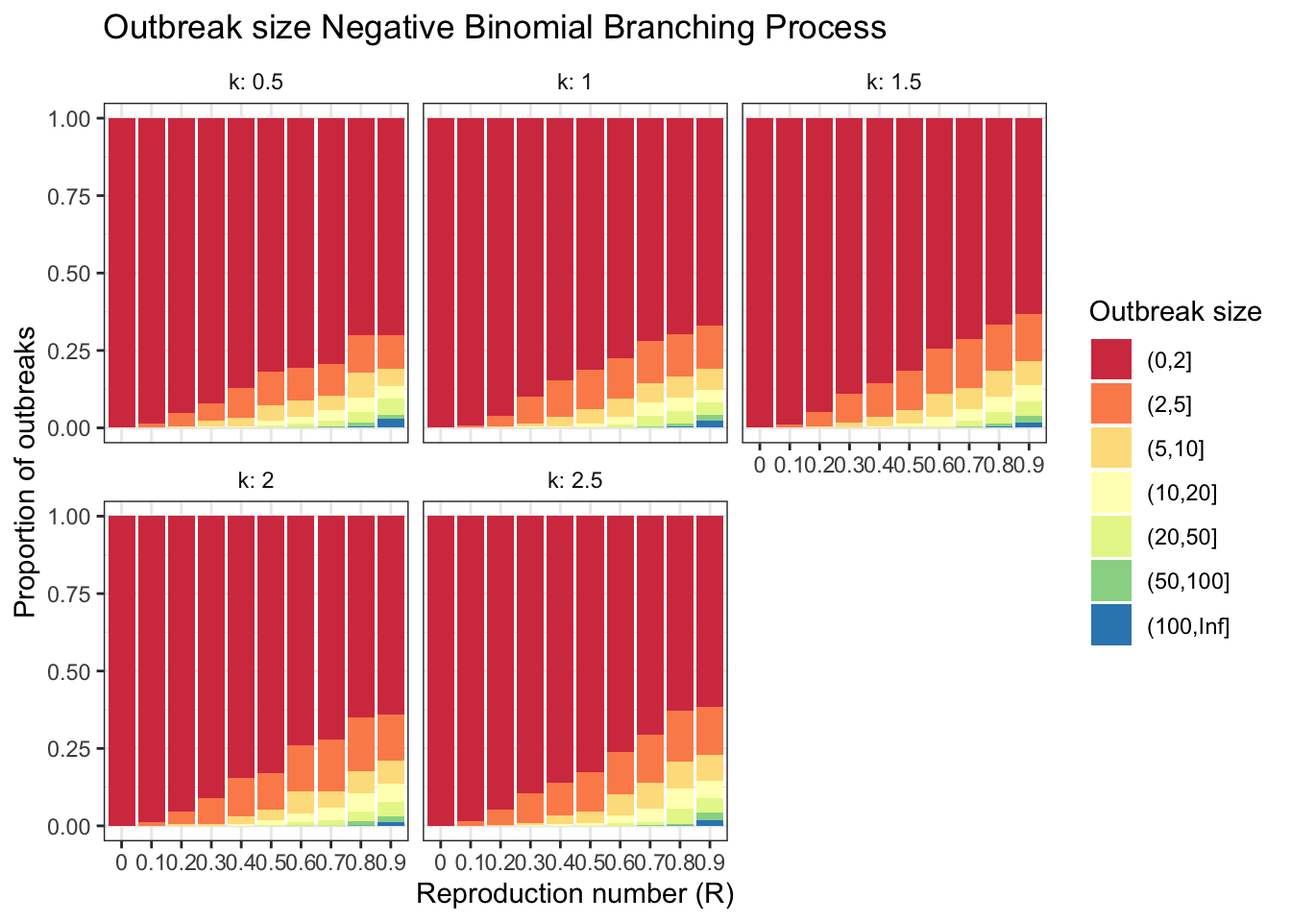
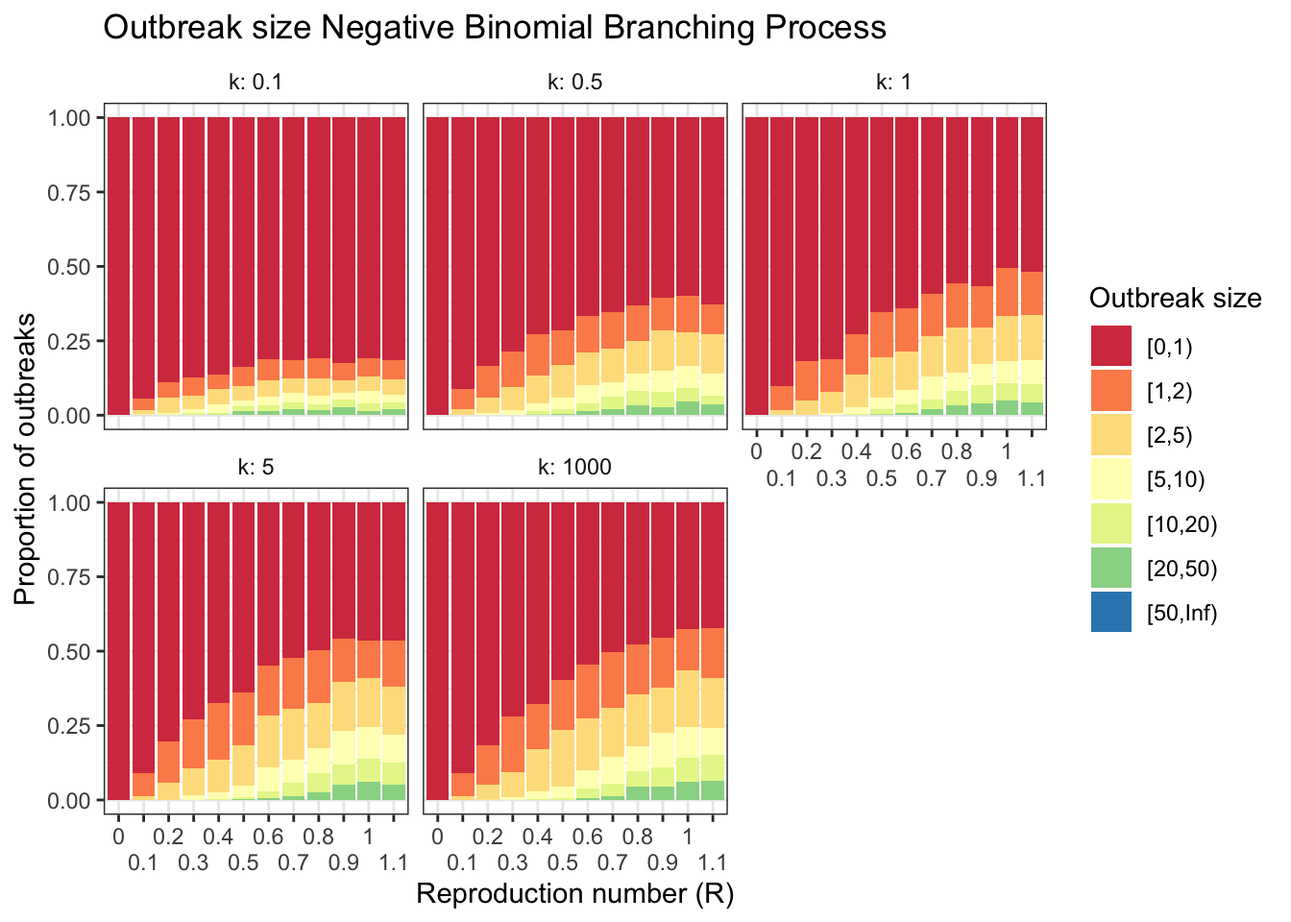
update report html and figures

diff --git a/report/outbreak_no_intervention.html b/report/outbreak_no_intervention.html
@@ -126,60 +126,50 @@ window.Quarto = {
 
 
 <p>This report requires two R packages: {epichains} and {ggplot2}, the former to simulate the branching process model and the latter to visualise the results.</p>
-<div class="cell">
-<div class="sourceCode cell-code" id="cb1"><pre class="sourceCode r code-with-copy"><code class="sourceCode r"><span id="cb1-1"><a href="#cb1-1" aria-hidden="true" tabindex="-1"></a><span class="co"># install from outbreak_dist branch of {epichains}</span></span>
-<span id="cb1-2"><a href="#cb1-2" aria-hidden="true" tabindex="-1"></a><span class="co"># remotes::install_github("epiverse-trace/epichains@outbreak_dist")</span></span>
-<span id="cb1-3"><a href="#cb1-3" aria-hidden="true" tabindex="-1"></a><span class="fu">library</span>(epichains)</span>
-<span id="cb1-4"><a href="#cb1-4" aria-hidden="true" tabindex="-1"></a><span class="fu">library</span>(ggplot2)</span></code><button title="Copy to Clipboard" class="code-copy-button"><i class="bi"></i></button></pre></div>
-</div>
-<p>The <code>simulate_scenarios()</code> function from {epichains} calculates the proportion of outbreak statistic across values of the reproduction number (<span class="math inline">\(R\)</span>).</p>
-<p>Here we run the function for both Poisson (<code>"rpois"</code>) and Negative Binomial (<code>"rnbinom"</code>) distributions, calculating both the size and length of the outbreak. Size is the total number of cases produced by a chain before it goes extinct. Length is the total number of generations reached by a chain before it goes extinct. See <code>?epichains::simulate_chain_stats</code> for more information on the branching process simulation.</p>
-<p>We simulate using a reproduction number (<span class="math inline">\(R\)</span>) between 0.1 and 0.9 at 0.1 intervals, and for the Negative Binomial offspring distribution we vary the dispersion parameter (<span class="math inline">\(k\)</span>) between 0.5 and 2.5 at 0.5 intervals. Smaller values of <span class="math inline">\(k\)</span> signify more overdispersion in the transmission spreading, in other words transmission is more heterogeneous and superspreding events are more likely. As <span class="math inline">\(k\)</span> increases individual-level transmission is more homogeneous and when <span class="math inline">\(k \rightarrow \infty\)</span> the Negative Binomial equals the Poisson offspring distribution.</p>
-<div class="cell">
-<div class="sourceCode cell-code" id="cb2"><pre class="sourceCode r code-with-copy"><code class="sourceCode r"><span id="cb2-1"><a href="#cb2-1" aria-hidden="true" tabindex="-1"></a>df <span class="ot">&lt;-</span> <span class="fu">simulate_scenarios</span>(</span>
-<span id="cb2-2"><a href="#cb2-2" aria-hidden="true" tabindex="-1"></a>  <span class="at">offspring_dist =</span> <span class="fu">c</span>(<span class="st">"rpois"</span>, <span class="st">"rnbinom"</span>), </span>
-<span id="cb2-3"><a href="#cb2-3" aria-hidden="true" tabindex="-1"></a>  <span class="at">statistic =</span> <span class="fu">c</span>(<span class="st">"size"</span>, <span class="st">"length"</span>), </span>
-<span id="cb2-4"><a href="#cb2-4" aria-hidden="true" tabindex="-1"></a>  <span class="at">R_seq =</span> <span class="fu">seq</span>(<span class="dv">0</span>, <span class="fl">0.9</span>, <span class="fl">0.1</span>), </span>
-<span id="cb2-5"><a href="#cb2-5" aria-hidden="true" tabindex="-1"></a>  <span class="at">k_seq =</span> <span class="fu">seq</span>(<span class="fl">0.5</span>, <span class="fl">2.5</span>, <span class="fl">0.5</span>), </span>
-<span id="cb2-6"><a href="#cb2-6" aria-hidden="true" tabindex="-1"></a>  <span class="at">breaks =</span> <span class="fu">c</span>(<span class="dv">0</span>, <span class="dv">2</span>, <span class="dv">5</span>, <span class="dv">10</span>, <span class="dv">20</span>, <span class="dv">50</span>, <span class="dv">100</span>, <span class="cn">Inf</span>)</span>
-<span id="cb2-7"><a href="#cb2-7" aria-hidden="true" tabindex="-1"></a>)</span></code><button title="Copy to Clipboard" class="code-copy-button"><i class="bi"></i></button></pre></div>
-</div>
+<p>The <code>simulate_scenarios()</code> function from {epichains} calculates the proportion of outbreak statistic (size and/or length) across scenarios of reproduction number (<span class="math inline">\(R0\)</span>) values, overdispersion, <span class="math inline">\(k\)</span>, and offspring distributions.</p>
+<p>Here, we use a simple branching process to explore scenarios of reproduction number (<span class="math inline">\(R0\)</span>) values, overdispersion, <span class="math inline">\(k\)</span>, and offspring distributions and their associated chain size and length. The branching process is seeded with an initial number of cases and an offspring distribution, and optionally, a generation time distribution.</p>
+<p>We define the chain size as the total number of cases produced by a chain before it goes extinct. The chain length, on the other hand, is the total number of generations reached by a chain before it goes extinct.</p>
+<p>We use a reproduction number (<span class="math inline">\(R\)</span>) between 0 and 1.1 at 0.1 intervals, and for the Negative Binomial offspring distribution, we vary the dispersion parameter (<span class="math inline">\(k\)</span>) at 0.1, 0.5, 1, 5, 1000. Smaller values of <span class="math inline">\(k\)</span> signify more overdispersion in the individual-level transmissibility, in other words transmission is more heterogeneous and superspreading events are more likely. As <span class="math inline">\(k\)</span> increases individual-level transmission is more homogeneous and when <span class="math inline">\(k \rightarrow \infty\)</span> the Negative Binomial equals the Poisson offspring distribution.</p>
+<p>We are interested in the number of secondary cases produced in the outbreak. This is the cases that are caused by human-to-human transmission, and not the primary/index case which can be a zoonotic transmission event. All transmission chain sizes and lengths presented below do not include the primary/index case. Thus, outbreaks can be of size and length 0 (red bar) when the primary cases does not infect anyone.</p>
 <p>The function produces a <code>data.frame</code> that contains the outbreak size or length in intervals (<code>$interval</code>), the proportion of outbreaks that fall into that interval (<code>$Freq</code>), the reproduction number (<code>$R</code>), the dispersion parameter (<code>$k</code>, for Poisson distributions <span class="math inline">\(k\)</span> is set to <code>NA</code>), the offspring distribution (<code>$offspring_dist</code>), and the outbreak statistic (<code>$statistic</code>, either size or length).</p>
 <p>Here are the first 6 rows.</p>
 <div class="cell">
-<div class="sourceCode cell-code" id="cb3"><pre class="sourceCode r code-with-copy"><code class="sourceCode r"><span id="cb3-1"><a href="#cb3-1" aria-hidden="true" tabindex="-1"></a><span class="fu">head</span>(df)</span></code><button title="Copy to Clipboard" class="code-copy-button"><i class="bi"></i></button></pre></div>
+<div class="sourceCode cell-code" id="cb1"><pre class="sourceCode r code-with-copy"><code class="sourceCode r"><span id="cb1-1"><a href="#cb1-1" aria-hidden="true" tabindex="-1"></a><span class="fu">head</span>(df)</span></code><button title="Copy to Clipboard" class="code-copy-button"><i class="bi"></i></button></pre></div>
 <div class="cell-output cell-output-stdout">
 <pre><code>  interval Freq R  k offspring_dist statistic
-1    (0,2]    1 0 NA          rpois      size
-2    (2,5]    0 0 NA          rpois      size
-3   (5,10]    0 0 NA          rpois      size
-4  (10,20]    0 0 NA          rpois      size
-5  (20,50]    0 0 NA          rpois      size
-6 (50,100]    0 0 NA          rpois      size</code></pre>
+1    [0,1)    1 0 NA          rpois      size
+2    [1,2)    0 0 NA          rpois      size
+3    [2,5)    0 0 NA          rpois      size
+4   [5,10)    0 0 NA          rpois      size
+5  [10,20)    0 0 NA          rpois      size
+6  [20,50)    0 0 NA          rpois      size</code></pre>
 </div>
 </div>
-<p>Plotting the Poisson results.</p>
+<p>Below, we show the results for the Poisson distribution for varying plausible <span class="math inline">\(R0\)</span> values. The figure shows the proportion of outbreaks that achieved different outbreak size ranges.</p>
 <div class="cell">
 <details class="code-fold">
 <summary>Show the code</summary>
-<div class="sourceCode cell-code" id="cb5"><pre class="sourceCode r code-with-copy"><code class="sourceCode r"><span id="cb5-1"><a href="#cb5-1" aria-hidden="true" tabindex="-1"></a>df <span class="sc">|&gt;</span> </span>
-<span id="cb5-2"><a href="#cb5-2" aria-hidden="true" tabindex="-1"></a>  <span class="fu">subset</span>(offspring_dist <span class="sc">==</span> <span class="st">"rpois"</span>) <span class="sc">|&gt;</span></span>
-<span id="cb5-3"><a href="#cb5-3" aria-hidden="true" tabindex="-1"></a>  ggplot2<span class="sc">::</span><span class="fu">ggplot</span>() <span class="sc">+</span></span>
-<span id="cb5-4"><a href="#cb5-4" aria-hidden="true" tabindex="-1"></a>  ggplot2<span class="sc">::</span><span class="fu">geom_col</span>(</span>
-<span id="cb5-5"><a href="#cb5-5" aria-hidden="true" tabindex="-1"></a>    <span class="at">mapping =</span> ggplot2<span class="sc">::</span><span class="fu">aes</span>(<span class="at">x =</span> <span class="fu">as.factor</span>(R), <span class="at">y =</span> Freq, <span class="at">fill =</span> interval)</span>
-<span id="cb5-6"><a href="#cb5-6" aria-hidden="true" tabindex="-1"></a>  ) <span class="sc">+</span></span>
-<span id="cb5-7"><a href="#cb5-7" aria-hidden="true" tabindex="-1"></a>  ggplot2<span class="sc">::</span><span class="fu">scale_x_discrete</span>(<span class="at">name =</span> <span class="st">"Reproduction number (R)"</span>) <span class="sc">+</span></span>
-<span id="cb5-8"><a href="#cb5-8" aria-hidden="true" tabindex="-1"></a>  ggplot2<span class="sc">::</span><span class="fu">scale_y_continuous</span>(<span class="at">name =</span> <span class="st">"Proportion of outbreaks"</span>) <span class="sc">+</span></span>
-<span id="cb5-9"><a href="#cb5-9" aria-hidden="true" tabindex="-1"></a>  ggplot2<span class="sc">::</span><span class="fu">scale_fill_brewer</span>(<span class="at">name =</span> <span class="st">"Outbreak size"</span>, <span class="at">palette =</span> <span class="st">"Spectral"</span>) <span class="sc">+</span></span>
-<span id="cb5-10"><a href="#cb5-10" aria-hidden="true" tabindex="-1"></a>  ggplot2<span class="sc">::</span><span class="fu">facet_wrap</span>(</span>
-<span id="cb5-11"><a href="#cb5-11" aria-hidden="true" tabindex="-1"></a>    <span class="at">facets =</span> <span class="fu">c</span>(<span class="st">"offspring_dist"</span>, <span class="st">"statistic"</span>), </span>
-<span id="cb5-12"><a href="#cb5-12" aria-hidden="true" tabindex="-1"></a>    <span class="at">labeller =</span> ggplot2<span class="sc">::</span>label_both</span>
-<span id="cb5-13"><a href="#cb5-13" aria-hidden="true" tabindex="-1"></a>  ) <span class="sc">+</span></span>
-<span id="cb5-14"><a href="#cb5-14" aria-hidden="true" tabindex="-1"></a>  ggplot2<span class="sc">::</span><span class="fu">labs</span>(</span>
-<span id="cb5-15"><a href="#cb5-15" aria-hidden="true" tabindex="-1"></a>    <span class="at">title =</span> <span class="st">"Outbreak size and length for Poisson Branching Process"</span></span>
-<span id="cb5-16"><a href="#cb5-16" aria-hidden="true" tabindex="-1"></a>  ) <span class="sc">+</span></span>
-<span id="cb5-17"><a href="#cb5-17" aria-hidden="true" tabindex="-1"></a>  ggplot2<span class="sc">::</span><span class="fu">theme_bw</span>() <span class="sc">+</span> </span>
-<span id="cb5-18"><a href="#cb5-18" aria-hidden="true" tabindex="-1"></a>  ggplot2<span class="sc">::</span><span class="fu">theme</span>(<span class="at">strip.background =</span> ggplot2<span class="sc">::</span><span class="fu">element_blank</span>())</span></code><button title="Copy to Clipboard" class="code-copy-button"><i class="bi"></i></button></pre></div>
+<div class="sourceCode cell-code" id="cb3"><pre class="sourceCode r code-with-copy"><code class="sourceCode r"><span id="cb3-1"><a href="#cb3-1" aria-hidden="true" tabindex="-1"></a>df <span class="sc">|&gt;</span> </span>
+<span id="cb3-2"><a href="#cb3-2" aria-hidden="true" tabindex="-1"></a>  <span class="fu">subset</span>(offspring_dist <span class="sc">==</span> <span class="st">"rpois"</span>) <span class="sc">|&gt;</span></span>
+<span id="cb3-3"><a href="#cb3-3" aria-hidden="true" tabindex="-1"></a>  ggplot2<span class="sc">::</span><span class="fu">ggplot</span>() <span class="sc">+</span></span>
+<span id="cb3-4"><a href="#cb3-4" aria-hidden="true" tabindex="-1"></a>  ggplot2<span class="sc">::</span><span class="fu">geom_col</span>(</span>
+<span id="cb3-5"><a href="#cb3-5" aria-hidden="true" tabindex="-1"></a>    <span class="at">mapping =</span> ggplot2<span class="sc">::</span><span class="fu">aes</span>(<span class="at">x =</span> <span class="fu">as.factor</span>(R), <span class="at">y =</span> Freq, <span class="at">fill =</span> interval)</span>
+<span id="cb3-6"><a href="#cb3-6" aria-hidden="true" tabindex="-1"></a>  ) <span class="sc">+</span></span>
+<span id="cb3-7"><a href="#cb3-7" aria-hidden="true" tabindex="-1"></a>  ggplot2<span class="sc">::</span><span class="fu">scale_x_discrete</span>(</span>
+<span id="cb3-8"><a href="#cb3-8" aria-hidden="true" tabindex="-1"></a>    <span class="at">name =</span> <span class="st">"Reproduction number (R)"</span>, </span>
+<span id="cb3-9"><a href="#cb3-9" aria-hidden="true" tabindex="-1"></a>    <span class="at">guide =</span> ggplot2<span class="sc">::</span><span class="fu">guide_axis</span>(<span class="at">n.dodge=</span><span class="dv">2</span>)</span>
+<span id="cb3-10"><a href="#cb3-10" aria-hidden="true" tabindex="-1"></a>  ) <span class="sc">+</span></span>
+<span id="cb3-11"><a href="#cb3-11" aria-hidden="true" tabindex="-1"></a>  ggplot2<span class="sc">::</span><span class="fu">scale_y_continuous</span>(<span class="at">name =</span> <span class="st">"Proportion of outbreaks"</span>) <span class="sc">+</span></span>
+<span id="cb3-12"><a href="#cb3-12" aria-hidden="true" tabindex="-1"></a>  ggplot2<span class="sc">::</span><span class="fu">scale_fill_brewer</span>(<span class="at">name =</span> <span class="st">"Outbreak size"</span>, <span class="at">palette =</span> <span class="st">"Spectral"</span>) <span class="sc">+</span></span>
+<span id="cb3-13"><a href="#cb3-13" aria-hidden="true" tabindex="-1"></a>  ggplot2<span class="sc">::</span><span class="fu">facet_wrap</span>(</span>
+<span id="cb3-14"><a href="#cb3-14" aria-hidden="true" tabindex="-1"></a>    <span class="at">facets =</span> <span class="fu">c</span>(<span class="st">"offspring_dist"</span>, <span class="st">"statistic"</span>), </span>
+<span id="cb3-15"><a href="#cb3-15" aria-hidden="true" tabindex="-1"></a>    <span class="at">labeller =</span> ggplot2<span class="sc">::</span>label_both</span>
+<span id="cb3-16"><a href="#cb3-16" aria-hidden="true" tabindex="-1"></a>  ) <span class="sc">+</span></span>
+<span id="cb3-17"><a href="#cb3-17" aria-hidden="true" tabindex="-1"></a>  ggplot2<span class="sc">::</span><span class="fu">labs</span>(</span>
+<span id="cb3-18"><a href="#cb3-18" aria-hidden="true" tabindex="-1"></a>    <span class="at">title =</span> <span class="st">"Outbreak size and length for Poisson Branching Process"</span></span>
+<span id="cb3-19"><a href="#cb3-19" aria-hidden="true" tabindex="-1"></a>  ) <span class="sc">+</span></span>
+<span id="cb3-20"><a href="#cb3-20" aria-hidden="true" tabindex="-1"></a>  ggplot2<span class="sc">::</span><span class="fu">theme_bw</span>() <span class="sc">+</span> </span>
+<span id="cb3-21"><a href="#cb3-21" aria-hidden="true" tabindex="-1"></a>  ggplot2<span class="sc">::</span><span class="fu">theme</span>(<span class="at">strip.background =</span> ggplot2<span class="sc">::</span><span class="fu">element_blank</span>())</span></code><button title="Copy to Clipboard" class="code-copy-button"><i class="bi"></i></button></pre></div>
 </details>
 <div class="cell-output-display">
 <div>
@@ -189,28 +179,31 @@ window.Quarto = {
 </div>
 </div>
 </div>
-<p>Plotting the Negative Binomial results for <span class="math inline">\(k = 0.5\)</span>.</p>
+<p>Next are the results of the negative distribution offspring for varying plausible <span class="math inline">\(R0\)</span> values but a fixed <span class="math inline">\(k\)</span> of <span class="math inline">\(0.5\)</span>. The figure shows the proportion of outbreaks that achieved different outbreak size ranges.</p>
 <div class="cell">
 <details class="code-fold">
 <summary>Show the code</summary>
-<div class="sourceCode cell-code" id="cb6"><pre class="sourceCode r code-with-copy"><code class="sourceCode r"><span id="cb6-1"><a href="#cb6-1" aria-hidden="true" tabindex="-1"></a>df <span class="sc">|&gt;</span> </span>
-<span id="cb6-2"><a href="#cb6-2" aria-hidden="true" tabindex="-1"></a>  <span class="fu">subset</span>(offspring_dist <span class="sc">==</span> <span class="st">"rnbinom"</span> <span class="sc">&amp;</span> k <span class="sc">==</span> <span class="fl">0.5</span>) <span class="sc">|&gt;</span></span>
-<span id="cb6-3"><a href="#cb6-3" aria-hidden="true" tabindex="-1"></a>  ggplot2<span class="sc">::</span><span class="fu">ggplot</span>() <span class="sc">+</span></span>
-<span id="cb6-4"><a href="#cb6-4" aria-hidden="true" tabindex="-1"></a>  ggplot2<span class="sc">::</span><span class="fu">geom_col</span>(</span>
-<span id="cb6-5"><a href="#cb6-5" aria-hidden="true" tabindex="-1"></a>    <span class="at">mapping =</span> ggplot2<span class="sc">::</span><span class="fu">aes</span>(<span class="at">x =</span> <span class="fu">as.factor</span>(R), <span class="at">y =</span> Freq, <span class="at">fill =</span> interval)</span>
-<span id="cb6-6"><a href="#cb6-6" aria-hidden="true" tabindex="-1"></a>  ) <span class="sc">+</span></span>
-<span id="cb6-7"><a href="#cb6-7" aria-hidden="true" tabindex="-1"></a>  ggplot2<span class="sc">::</span><span class="fu">scale_x_discrete</span>(<span class="at">name =</span> <span class="st">"Reproduction number (R)"</span>) <span class="sc">+</span></span>
-<span id="cb6-8"><a href="#cb6-8" aria-hidden="true" tabindex="-1"></a>  ggplot2<span class="sc">::</span><span class="fu">scale_y_continuous</span>(<span class="at">name =</span> <span class="st">"Proportion of outbreaks"</span>) <span class="sc">+</span></span>
-<span id="cb6-9"><a href="#cb6-9" aria-hidden="true" tabindex="-1"></a>  ggplot2<span class="sc">::</span><span class="fu">scale_fill_brewer</span>(<span class="at">name =</span> <span class="st">"Outbreak size"</span>, <span class="at">palette =</span> <span class="st">"Spectral"</span>) <span class="sc">+</span></span>
-<span id="cb6-10"><a href="#cb6-10" aria-hidden="true" tabindex="-1"></a>  ggplot2<span class="sc">::</span><span class="fu">facet_wrap</span>(</span>
-<span id="cb6-11"><a href="#cb6-11" aria-hidden="true" tabindex="-1"></a>    <span class="at">facets =</span> <span class="fu">c</span>(<span class="st">"offspring_dist"</span>, <span class="st">"statistic"</span>), </span>
-<span id="cb6-12"><a href="#cb6-12" aria-hidden="true" tabindex="-1"></a>    <span class="at">labeller =</span> ggplot2<span class="sc">::</span>label_both</span>
-<span id="cb6-13"><a href="#cb6-13" aria-hidden="true" tabindex="-1"></a>  ) <span class="sc">+</span></span>
-<span id="cb6-14"><a href="#cb6-14" aria-hidden="true" tabindex="-1"></a>  ggplot2<span class="sc">::</span><span class="fu">labs</span>(</span>
-<span id="cb6-15"><a href="#cb6-15" aria-hidden="true" tabindex="-1"></a>    <span class="at">title =</span> <span class="st">"Outbreak size and length for Negative Binomial Branching Process"</span></span>
-<span id="cb6-16"><a href="#cb6-16" aria-hidden="true" tabindex="-1"></a>  ) <span class="sc">+</span></span>
-<span id="cb6-17"><a href="#cb6-17" aria-hidden="true" tabindex="-1"></a>  ggplot2<span class="sc">::</span><span class="fu">theme_bw</span>() <span class="sc">+</span> </span>
-<span id="cb6-18"><a href="#cb6-18" aria-hidden="true" tabindex="-1"></a>  ggplot2<span class="sc">::</span><span class="fu">theme</span>(<span class="at">strip.background =</span> ggplot2<span class="sc">::</span><span class="fu">element_blank</span>())</span></code><button title="Copy to Clipboard" class="code-copy-button"><i class="bi"></i></button></pre></div>
+<div class="sourceCode cell-code" id="cb4"><pre class="sourceCode r code-with-copy"><code class="sourceCode r"><span id="cb4-1"><a href="#cb4-1" aria-hidden="true" tabindex="-1"></a>df <span class="sc">|&gt;</span> </span>
+<span id="cb4-2"><a href="#cb4-2" aria-hidden="true" tabindex="-1"></a>  <span class="fu">subset</span>(offspring_dist <span class="sc">==</span> <span class="st">"rnbinom"</span> <span class="sc">&amp;</span> k <span class="sc">==</span> <span class="fl">0.5</span>) <span class="sc">|&gt;</span></span>
+<span id="cb4-3"><a href="#cb4-3" aria-hidden="true" tabindex="-1"></a>  ggplot2<span class="sc">::</span><span class="fu">ggplot</span>() <span class="sc">+</span></span>
+<span id="cb4-4"><a href="#cb4-4" aria-hidden="true" tabindex="-1"></a>  ggplot2<span class="sc">::</span><span class="fu">geom_col</span>(</span>
+<span id="cb4-5"><a href="#cb4-5" aria-hidden="true" tabindex="-1"></a>    <span class="at">mapping =</span> ggplot2<span class="sc">::</span><span class="fu">aes</span>(<span class="at">x =</span> <span class="fu">as.factor</span>(R), <span class="at">y =</span> Freq, <span class="at">fill =</span> interval)</span>
+<span id="cb4-6"><a href="#cb4-6" aria-hidden="true" tabindex="-1"></a>  ) <span class="sc">+</span></span>
+<span id="cb4-7"><a href="#cb4-7" aria-hidden="true" tabindex="-1"></a>  ggplot2<span class="sc">::</span><span class="fu">scale_x_discrete</span>(</span>
+<span id="cb4-8"><a href="#cb4-8" aria-hidden="true" tabindex="-1"></a>    <span class="at">name =</span> <span class="st">"Reproduction number (R)"</span>,</span>
+<span id="cb4-9"><a href="#cb4-9" aria-hidden="true" tabindex="-1"></a>    <span class="at">guide =</span> ggplot2<span class="sc">::</span><span class="fu">guide_axis</span>(<span class="at">n.dodge=</span><span class="dv">2</span>)</span>
+<span id="cb4-10"><a href="#cb4-10" aria-hidden="true" tabindex="-1"></a>  ) <span class="sc">+</span></span>
+<span id="cb4-11"><a href="#cb4-11" aria-hidden="true" tabindex="-1"></a>  ggplot2<span class="sc">::</span><span class="fu">scale_y_continuous</span>(<span class="at">name =</span> <span class="st">"Proportion of outbreaks"</span>) <span class="sc">+</span></span>
+<span id="cb4-12"><a href="#cb4-12" aria-hidden="true" tabindex="-1"></a>  ggplot2<span class="sc">::</span><span class="fu">scale_fill_brewer</span>(<span class="at">name =</span> <span class="st">"Outbreak size"</span>, <span class="at">palette =</span> <span class="st">"Spectral"</span>) <span class="sc">+</span></span>
+<span id="cb4-13"><a href="#cb4-13" aria-hidden="true" tabindex="-1"></a>  ggplot2<span class="sc">::</span><span class="fu">facet_wrap</span>(</span>
+<span id="cb4-14"><a href="#cb4-14" aria-hidden="true" tabindex="-1"></a>    <span class="at">facets =</span> <span class="fu">c</span>(<span class="st">"offspring_dist"</span>, <span class="st">"statistic"</span>), </span>
+<span id="cb4-15"><a href="#cb4-15" aria-hidden="true" tabindex="-1"></a>    <span class="at">labeller =</span> ggplot2<span class="sc">::</span>label_both</span>
+<span id="cb4-16"><a href="#cb4-16" aria-hidden="true" tabindex="-1"></a>  ) <span class="sc">+</span></span>
+<span id="cb4-17"><a href="#cb4-17" aria-hidden="true" tabindex="-1"></a>  ggplot2<span class="sc">::</span><span class="fu">labs</span>(</span>
+<span id="cb4-18"><a href="#cb4-18" aria-hidden="true" tabindex="-1"></a>    <span class="at">title =</span> <span class="st">"Outbreak size and length for Negative Binomial Branching Process"</span></span>
+<span id="cb4-19"><a href="#cb4-19" aria-hidden="true" tabindex="-1"></a>  ) <span class="sc">+</span></span>
+<span id="cb4-20"><a href="#cb4-20" aria-hidden="true" tabindex="-1"></a>  ggplot2<span class="sc">::</span><span class="fu">theme_bw</span>() <span class="sc">+</span> </span>
+<span id="cb4-21"><a href="#cb4-21" aria-hidden="true" tabindex="-1"></a>  ggplot2<span class="sc">::</span><span class="fu">theme</span>(<span class="at">strip.background =</span> ggplot2<span class="sc">::</span><span class="fu">element_blank</span>())</span></code><button title="Copy to Clipboard" class="code-copy-button"><i class="bi"></i></button></pre></div>
 </details>
 <div class="cell-output-display">
 <div>
@@ -220,28 +213,31 @@ window.Quarto = {
 </div>
 </div>
 </div>
-<p>Plotting the outbreak size distribution for the Negative Binomial results faceting for values of <span class="math inline">\(k\)</span>.</p>
+<p>We now show the results of the outbreak using a negative distribution offspring for varying plausible values of <span class="math inline">\(R0\)</span> and <span class="math inline">\(k\)</span>. The figure shows the proportion of outbreaks that achieved different outbreak size ranges.</p>
 <div class="cell">
 <details class="code-fold">
 <summary>Show the code</summary>
-<div class="sourceCode cell-code" id="cb7"><pre class="sourceCode r code-with-copy"><code class="sourceCode r"><span id="cb7-1"><a href="#cb7-1" aria-hidden="true" tabindex="-1"></a>df <span class="sc">|&gt;</span> </span>
-<span id="cb7-2"><a href="#cb7-2" aria-hidden="true" tabindex="-1"></a>  <span class="fu">subset</span>(offspring_dist <span class="sc">==</span> <span class="st">"rnbinom"</span> <span class="sc">&amp;</span> statistic <span class="sc">==</span> <span class="st">"size"</span>) <span class="sc">|&gt;</span></span>
-<span id="cb7-3"><a href="#cb7-3" aria-hidden="true" tabindex="-1"></a>  ggplot2<span class="sc">::</span><span class="fu">ggplot</span>() <span class="sc">+</span></span>
-<span id="cb7-4"><a href="#cb7-4" aria-hidden="true" tabindex="-1"></a>  ggplot2<span class="sc">::</span><span class="fu">geom_col</span>(</span>
-<span id="cb7-5"><a href="#cb7-5" aria-hidden="true" tabindex="-1"></a>    <span class="at">mapping =</span> ggplot2<span class="sc">::</span><span class="fu">aes</span>(<span class="at">x =</span> <span class="fu">as.factor</span>(R), <span class="at">y =</span> Freq, <span class="at">fill =</span> interval)</span>
-<span id="cb7-6"><a href="#cb7-6" aria-hidden="true" tabindex="-1"></a>  ) <span class="sc">+</span></span>
-<span id="cb7-7"><a href="#cb7-7" aria-hidden="true" tabindex="-1"></a>  ggplot2<span class="sc">::</span><span class="fu">scale_x_discrete</span>(<span class="at">name =</span> <span class="st">"Reproduction number (R)"</span>) <span class="sc">+</span></span>
-<span id="cb7-8"><a href="#cb7-8" aria-hidden="true" tabindex="-1"></a>  ggplot2<span class="sc">::</span><span class="fu">scale_y_continuous</span>(<span class="at">name =</span> <span class="st">"Proportion of outbreaks"</span>) <span class="sc">+</span></span>
-<span id="cb7-9"><a href="#cb7-9" aria-hidden="true" tabindex="-1"></a>  ggplot2<span class="sc">::</span><span class="fu">scale_fill_brewer</span>(<span class="at">name =</span> <span class="st">"Outbreak size"</span>, <span class="at">palette =</span> <span class="st">"Spectral"</span>) <span class="sc">+</span></span>
-<span id="cb7-10"><a href="#cb7-10" aria-hidden="true" tabindex="-1"></a>  ggplot2<span class="sc">::</span><span class="fu">facet_wrap</span>(</span>
-<span id="cb7-11"><a href="#cb7-11" aria-hidden="true" tabindex="-1"></a>    <span class="at">facets =</span> <span class="fu">c</span>(<span class="st">"k"</span>), </span>
-<span id="cb7-12"><a href="#cb7-12" aria-hidden="true" tabindex="-1"></a>    <span class="at">labeller =</span> ggplot2<span class="sc">::</span>label_both</span>
-<span id="cb7-13"><a href="#cb7-13" aria-hidden="true" tabindex="-1"></a>  ) <span class="sc">+</span></span>
-<span id="cb7-14"><a href="#cb7-14" aria-hidden="true" tabindex="-1"></a>  ggplot2<span class="sc">::</span><span class="fu">labs</span>(</span>
-<span id="cb7-15"><a href="#cb7-15" aria-hidden="true" tabindex="-1"></a>    <span class="at">title =</span> <span class="st">"Outbreak size Negative Binomial Branching Process"</span></span>
-<span id="cb7-16"><a href="#cb7-16" aria-hidden="true" tabindex="-1"></a>  ) <span class="sc">+</span></span>
-<span id="cb7-17"><a href="#cb7-17" aria-hidden="true" tabindex="-1"></a>  ggplot2<span class="sc">::</span><span class="fu">theme_bw</span>() <span class="sc">+</span> </span>
-<span id="cb7-18"><a href="#cb7-18" aria-hidden="true" tabindex="-1"></a>  ggplot2<span class="sc">::</span><span class="fu">theme</span>(<span class="at">strip.background =</span> ggplot2<span class="sc">::</span><span class="fu">element_blank</span>())</span></code><button title="Copy to Clipboard" class="code-copy-button"><i class="bi"></i></button></pre></div>
+<div class="sourceCode cell-code" id="cb5"><pre class="sourceCode r code-with-copy"><code class="sourceCode r"><span id="cb5-1"><a href="#cb5-1" aria-hidden="true" tabindex="-1"></a>df <span class="sc">|&gt;</span> </span>
+<span id="cb5-2"><a href="#cb5-2" aria-hidden="true" tabindex="-1"></a>  <span class="fu">subset</span>(offspring_dist <span class="sc">==</span> <span class="st">"rnbinom"</span> <span class="sc">&amp;</span> statistic <span class="sc">==</span> <span class="st">"size"</span>) <span class="sc">|&gt;</span></span>
+<span id="cb5-3"><a href="#cb5-3" aria-hidden="true" tabindex="-1"></a>  ggplot2<span class="sc">::</span><span class="fu">ggplot</span>() <span class="sc">+</span></span>
+<span id="cb5-4"><a href="#cb5-4" aria-hidden="true" tabindex="-1"></a>  ggplot2<span class="sc">::</span><span class="fu">geom_col</span>(</span>
+<span id="cb5-5"><a href="#cb5-5" aria-hidden="true" tabindex="-1"></a>    <span class="at">mapping =</span> ggplot2<span class="sc">::</span><span class="fu">aes</span>(<span class="at">x =</span> <span class="fu">as.factor</span>(R), <span class="at">y =</span> Freq, <span class="at">fill =</span> interval)</span>
+<span id="cb5-6"><a href="#cb5-6" aria-hidden="true" tabindex="-1"></a>  ) <span class="sc">+</span></span>
+<span id="cb5-7"><a href="#cb5-7" aria-hidden="true" tabindex="-1"></a>  ggplot2<span class="sc">::</span><span class="fu">scale_x_discrete</span>(</span>
+<span id="cb5-8"><a href="#cb5-8" aria-hidden="true" tabindex="-1"></a>    <span class="at">name =</span> <span class="st">"Reproduction number (R)"</span>,</span>
+<span id="cb5-9"><a href="#cb5-9" aria-hidden="true" tabindex="-1"></a>    <span class="at">guide =</span> ggplot2<span class="sc">::</span><span class="fu">guide_axis</span>(<span class="at">n.dodge=</span><span class="dv">2</span>)</span>
+<span id="cb5-10"><a href="#cb5-10" aria-hidden="true" tabindex="-1"></a>  ) <span class="sc">+</span></span>
+<span id="cb5-11"><a href="#cb5-11" aria-hidden="true" tabindex="-1"></a>  ggplot2<span class="sc">::</span><span class="fu">scale_y_continuous</span>(<span class="at">name =</span> <span class="st">"Proportion of outbreaks"</span>) <span class="sc">+</span></span>
+<span id="cb5-12"><a href="#cb5-12" aria-hidden="true" tabindex="-1"></a>  ggplot2<span class="sc">::</span><span class="fu">scale_fill_brewer</span>(<span class="at">name =</span> <span class="st">"Outbreak size"</span>, <span class="at">palette =</span> <span class="st">"Spectral"</span>) <span class="sc">+</span></span>
+<span id="cb5-13"><a href="#cb5-13" aria-hidden="true" tabindex="-1"></a>  ggplot2<span class="sc">::</span><span class="fu">facet_wrap</span>(</span>
+<span id="cb5-14"><a href="#cb5-14" aria-hidden="true" tabindex="-1"></a>    <span class="at">facets =</span> <span class="fu">c</span>(<span class="st">"k"</span>), </span>
+<span id="cb5-15"><a href="#cb5-15" aria-hidden="true" tabindex="-1"></a>    <span class="at">labeller =</span> ggplot2<span class="sc">::</span>label_both</span>
+<span id="cb5-16"><a href="#cb5-16" aria-hidden="true" tabindex="-1"></a>  ) <span class="sc">+</span></span>
+<span id="cb5-17"><a href="#cb5-17" aria-hidden="true" tabindex="-1"></a>  ggplot2<span class="sc">::</span><span class="fu">labs</span>(</span>
+<span id="cb5-18"><a href="#cb5-18" aria-hidden="true" tabindex="-1"></a>    <span class="at">title =</span> <span class="st">"Outbreak size Negative Binomial Branching Process"</span></span>
+<span id="cb5-19"><a href="#cb5-19" aria-hidden="true" tabindex="-1"></a>  ) <span class="sc">+</span></span>
+<span id="cb5-20"><a href="#cb5-20" aria-hidden="true" tabindex="-1"></a>  ggplot2<span class="sc">::</span><span class="fu">theme_bw</span>() <span class="sc">+</span> </span>
+<span id="cb5-21"><a href="#cb5-21" aria-hidden="true" tabindex="-1"></a>  ggplot2<span class="sc">::</span><span class="fu">theme</span>(<span class="at">strip.background =</span> ggplot2<span class="sc">::</span><span class="fu">element_blank</span>())</span></code><button title="Copy to Clipboard" class="code-copy-button"><i class="bi"></i></button></pre></div>
 </details>
 <div class="cell-output-display">
 <div>
@@ -251,28 +247,31 @@ window.Quarto = {
 </div>
 </div>
 </div>
-<p>Plotting the outbreak length distribution for the Negative Binomial results faceting for values of <span class="math inline">\(k\)</span>.</p>
+<p>In the next figure, we show the results of outbreak lengths for a negative binomial offspring distribution with varying <span class="math inline">\(R0\)</span> and <span class="math inline">\(k\)</span> values.</p>
 <div class="cell">
 <details class="code-fold">
 <summary>Show the code</summary>
-<div class="sourceCode cell-code" id="cb8"><pre class="sourceCode r code-with-copy"><code class="sourceCode r"><span id="cb8-1"><a href="#cb8-1" aria-hidden="true" tabindex="-1"></a>df <span class="sc">|&gt;</span> </span>
-<span id="cb8-2"><a href="#cb8-2" aria-hidden="true" tabindex="-1"></a>  <span class="fu">subset</span>(offspring_dist <span class="sc">==</span> <span class="st">"rnbinom"</span> <span class="sc">&amp;</span> statistic <span class="sc">==</span> <span class="st">"length"</span>) <span class="sc">|&gt;</span></span>
-<span id="cb8-3"><a href="#cb8-3" aria-hidden="true" tabindex="-1"></a>  ggplot2<span class="sc">::</span><span class="fu">ggplot</span>() <span class="sc">+</span></span>
-<span id="cb8-4"><a href="#cb8-4" aria-hidden="true" tabindex="-1"></a>  ggplot2<span class="sc">::</span><span class="fu">geom_col</span>(</span>
-<span id="cb8-5"><a href="#cb8-5" aria-hidden="true" tabindex="-1"></a>    <span class="at">mapping =</span> ggplot2<span class="sc">::</span><span class="fu">aes</span>(<span class="at">x =</span> <span class="fu">as.factor</span>(R), <span class="at">y =</span> Freq, <span class="at">fill =</span> interval)</span>
-<span id="cb8-6"><a href="#cb8-6" aria-hidden="true" tabindex="-1"></a>  ) <span class="sc">+</span></span>
-<span id="cb8-7"><a href="#cb8-7" aria-hidden="true" tabindex="-1"></a>  ggplot2<span class="sc">::</span><span class="fu">scale_x_discrete</span>(<span class="at">name =</span> <span class="st">"Reproduction number (R)"</span>) <span class="sc">+</span></span>
-<span id="cb8-8"><a href="#cb8-8" aria-hidden="true" tabindex="-1"></a>  ggplot2<span class="sc">::</span><span class="fu">scale_y_continuous</span>(<span class="at">name =</span> <span class="st">"Proportion of outbreaks"</span>) <span class="sc">+</span></span>
-<span id="cb8-9"><a href="#cb8-9" aria-hidden="true" tabindex="-1"></a>  ggplot2<span class="sc">::</span><span class="fu">scale_fill_brewer</span>(<span class="at">name =</span> <span class="st">"Outbreak length"</span>, <span class="at">palette =</span> <span class="st">"Spectral"</span>) <span class="sc">+</span></span>
-<span id="cb8-10"><a href="#cb8-10" aria-hidden="true" tabindex="-1"></a>  ggplot2<span class="sc">::</span><span class="fu">facet_wrap</span>(</span>
-<span id="cb8-11"><a href="#cb8-11" aria-hidden="true" tabindex="-1"></a>    <span class="at">facets =</span> <span class="fu">c</span>(<span class="st">"k"</span>), </span>
-<span id="cb8-12"><a href="#cb8-12" aria-hidden="true" tabindex="-1"></a>    <span class="at">labeller =</span> ggplot2<span class="sc">::</span>label_both</span>
-<span id="cb8-13"><a href="#cb8-13" aria-hidden="true" tabindex="-1"></a>  ) <span class="sc">+</span></span>
-<span id="cb8-14"><a href="#cb8-14" aria-hidden="true" tabindex="-1"></a>  ggplot2<span class="sc">::</span><span class="fu">labs</span>(</span>
-<span id="cb8-15"><a href="#cb8-15" aria-hidden="true" tabindex="-1"></a>    <span class="at">title =</span> <span class="st">"Outbreak length for Negative Binomial Branching Process"</span></span>
-<span id="cb8-16"><a href="#cb8-16" aria-hidden="true" tabindex="-1"></a>  ) <span class="sc">+</span></span>
-<span id="cb8-17"><a href="#cb8-17" aria-hidden="true" tabindex="-1"></a>  ggplot2<span class="sc">::</span><span class="fu">theme_bw</span>() <span class="sc">+</span> </span>
-<span id="cb8-18"><a href="#cb8-18" aria-hidden="true" tabindex="-1"></a>  ggplot2<span class="sc">::</span><span class="fu">theme</span>(<span class="at">strip.background =</span> ggplot2<span class="sc">::</span><span class="fu">element_blank</span>())</span></code><button title="Copy to Clipboard" class="code-copy-button"><i class="bi"></i></button></pre></div>
+<div class="sourceCode cell-code" id="cb6"><pre class="sourceCode r code-with-copy"><code class="sourceCode r"><span id="cb6-1"><a href="#cb6-1" aria-hidden="true" tabindex="-1"></a>df <span class="sc">|&gt;</span> </span>
+<span id="cb6-2"><a href="#cb6-2" aria-hidden="true" tabindex="-1"></a>  <span class="fu">subset</span>(offspring_dist <span class="sc">==</span> <span class="st">"rnbinom"</span> <span class="sc">&amp;</span> statistic <span class="sc">==</span> <span class="st">"length"</span>) <span class="sc">|&gt;</span></span>
+<span id="cb6-3"><a href="#cb6-3" aria-hidden="true" tabindex="-1"></a>  ggplot2<span class="sc">::</span><span class="fu">ggplot</span>() <span class="sc">+</span></span>
+<span id="cb6-4"><a href="#cb6-4" aria-hidden="true" tabindex="-1"></a>  ggplot2<span class="sc">::</span><span class="fu">geom_col</span>(</span>
+<span id="cb6-5"><a href="#cb6-5" aria-hidden="true" tabindex="-1"></a>    <span class="at">mapping =</span> ggplot2<span class="sc">::</span><span class="fu">aes</span>(<span class="at">x =</span> <span class="fu">as.factor</span>(R), <span class="at">y =</span> Freq, <span class="at">fill =</span> interval)</span>
+<span id="cb6-6"><a href="#cb6-6" aria-hidden="true" tabindex="-1"></a>  ) <span class="sc">+</span></span>
+<span id="cb6-7"><a href="#cb6-7" aria-hidden="true" tabindex="-1"></a>  ggplot2<span class="sc">::</span><span class="fu">scale_x_discrete</span>(</span>
+<span id="cb6-8"><a href="#cb6-8" aria-hidden="true" tabindex="-1"></a>    <span class="at">name =</span> <span class="st">"Reproduction number (R)"</span>,</span>
+<span id="cb6-9"><a href="#cb6-9" aria-hidden="true" tabindex="-1"></a>    <span class="at">guide =</span> ggplot2<span class="sc">::</span><span class="fu">guide_axis</span>(<span class="at">n.dodge=</span><span class="dv">2</span>)</span>
+<span id="cb6-10"><a href="#cb6-10" aria-hidden="true" tabindex="-1"></a>  ) <span class="sc">+</span></span>
+<span id="cb6-11"><a href="#cb6-11" aria-hidden="true" tabindex="-1"></a>  ggplot2<span class="sc">::</span><span class="fu">scale_y_continuous</span>(<span class="at">name =</span> <span class="st">"Proportion of outbreaks"</span>) <span class="sc">+</span></span>
+<span id="cb6-12"><a href="#cb6-12" aria-hidden="true" tabindex="-1"></a>  ggplot2<span class="sc">::</span><span class="fu">scale_fill_brewer</span>(<span class="at">name =</span> <span class="st">"Outbreak length"</span>, <span class="at">palette =</span> <span class="st">"Spectral"</span>) <span class="sc">+</span></span>
+<span id="cb6-13"><a href="#cb6-13" aria-hidden="true" tabindex="-1"></a>  ggplot2<span class="sc">::</span><span class="fu">facet_wrap</span>(</span>
+<span id="cb6-14"><a href="#cb6-14" aria-hidden="true" tabindex="-1"></a>    <span class="at">facets =</span> <span class="fu">c</span>(<span class="st">"k"</span>), </span>
+<span id="cb6-15"><a href="#cb6-15" aria-hidden="true" tabindex="-1"></a>    <span class="at">labeller =</span> ggplot2<span class="sc">::</span>label_both</span>
+<span id="cb6-16"><a href="#cb6-16" aria-hidden="true" tabindex="-1"></a>  ) <span class="sc">+</span></span>
+<span id="cb6-17"><a href="#cb6-17" aria-hidden="true" tabindex="-1"></a>  ggplot2<span class="sc">::</span><span class="fu">labs</span>(</span>
+<span id="cb6-18"><a href="#cb6-18" aria-hidden="true" tabindex="-1"></a>    <span class="at">title =</span> <span class="st">"Outbreak length for Negative Binomial Branching Process"</span></span>
+<span id="cb6-19"><a href="#cb6-19" aria-hidden="true" tabindex="-1"></a>  ) <span class="sc">+</span></span>
+<span id="cb6-20"><a href="#cb6-20" aria-hidden="true" tabindex="-1"></a>  ggplot2<span class="sc">::</span><span class="fu">theme_bw</span>() <span class="sc">+</span> </span>
+<span id="cb6-21"><a href="#cb6-21" aria-hidden="true" tabindex="-1"></a>  ggplot2<span class="sc">::</span><span class="fu">theme</span>(<span class="at">strip.background =</span> ggplot2<span class="sc">::</span><span class="fu">element_blank</span>())</span></code><button title="Copy to Clipboard" class="code-copy-button"><i class="bi"></i></button></pre></div>
 </details>
 <div class="cell-output-display">
 <div>
